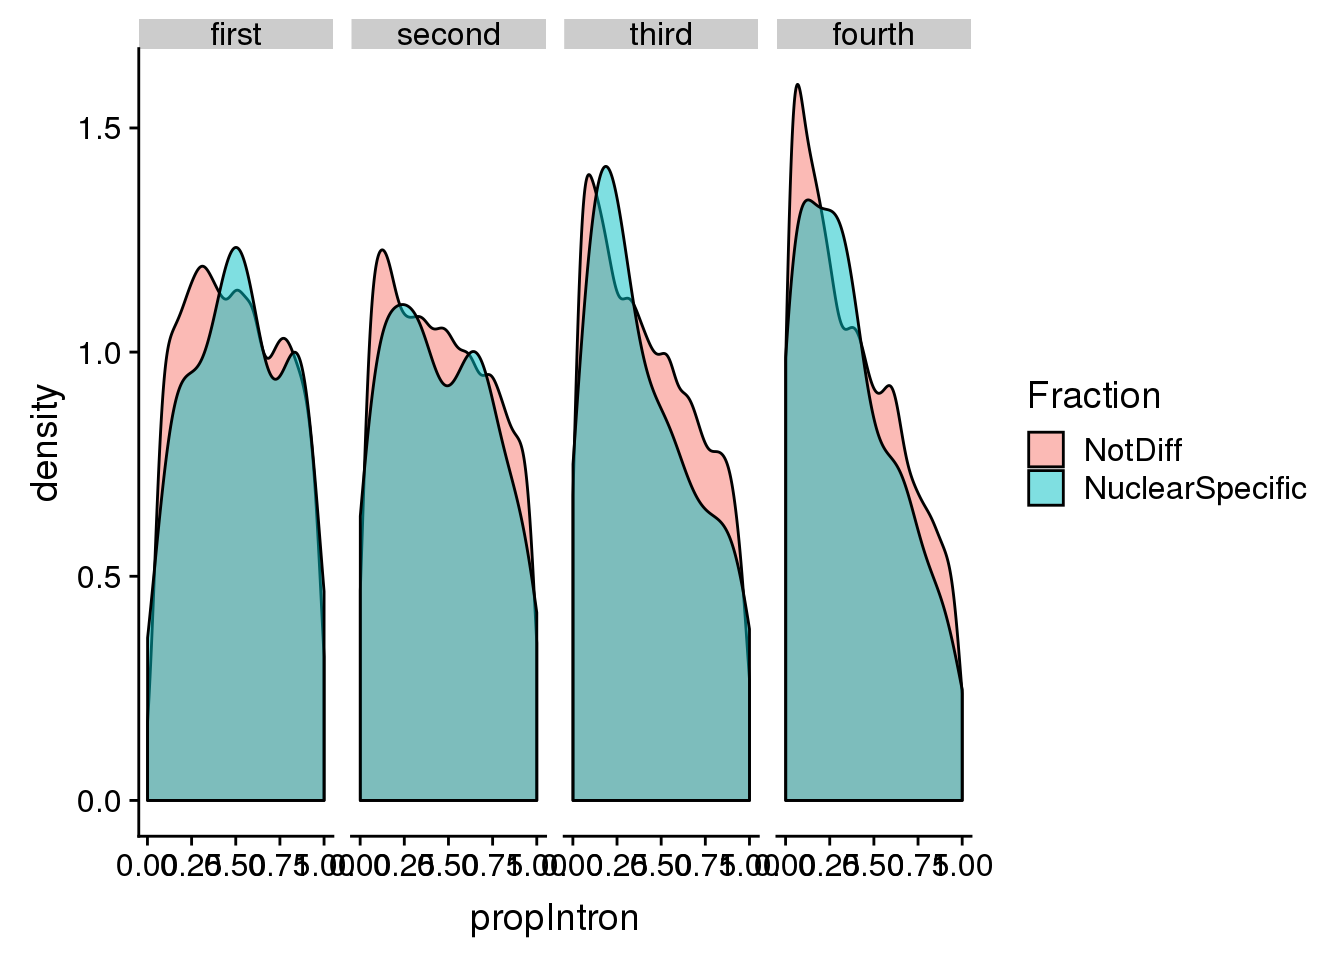
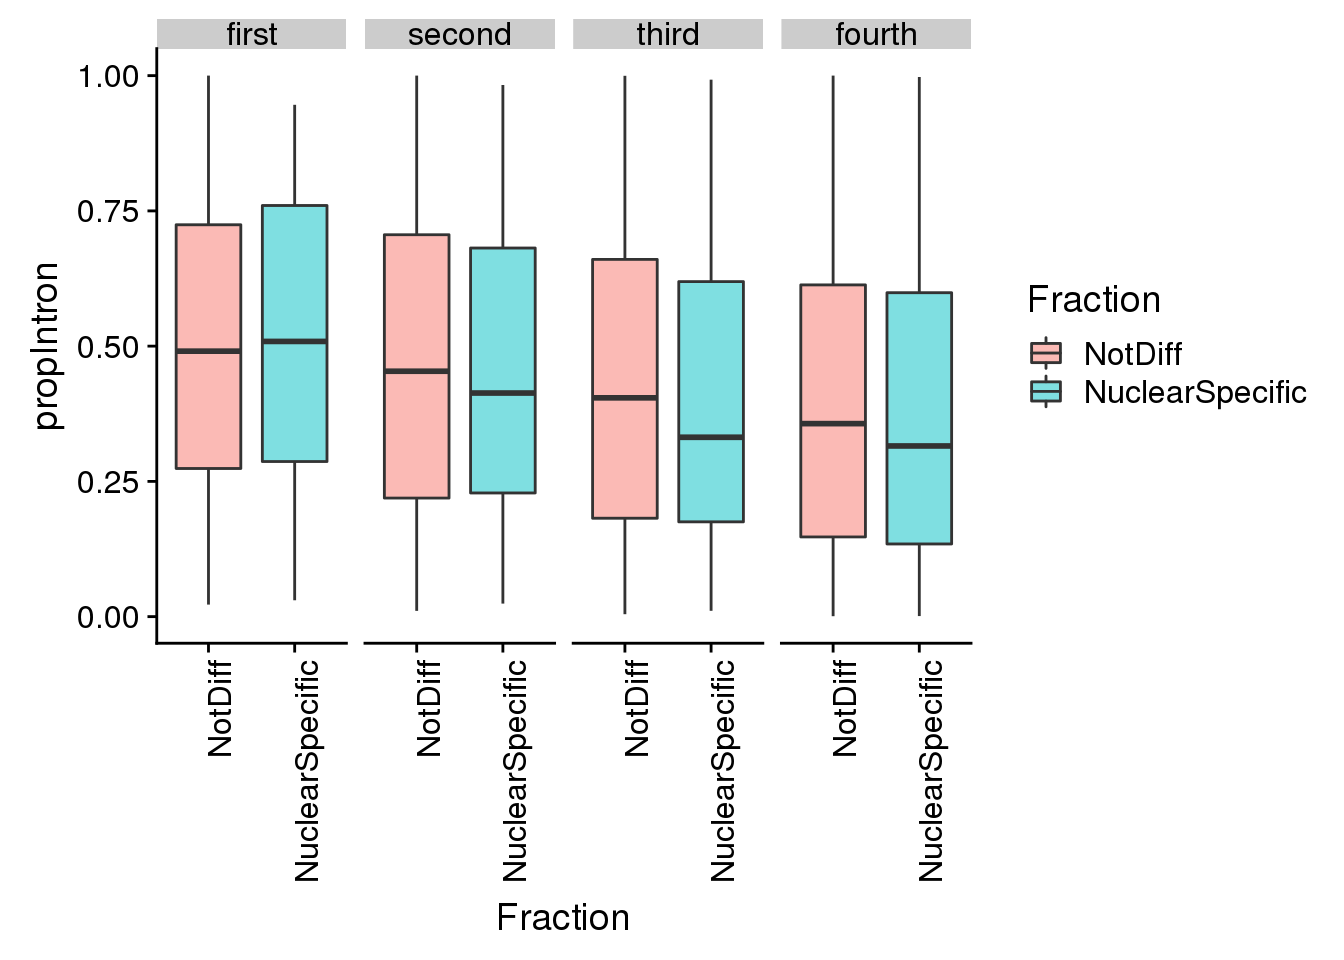
Build site.

diff --git a/docs/nucintronicanalysis.html b/docs/nucintronicanalysis.html
@@ -343,7 +343,7 @@ div.section {
 <div class="tab-content">
 <div id="summary" class="tab-pane fade in active">
 <p>
-<strong>Last updated:</strong> 2019-05-22
+<strong>Last updated:</strong> 2019-05-23
 </p>
 <p>
 <strong>Checks:</strong> <span class="glyphicon glyphicon-ok text-success" aria-hidden="true"></span> 6 <span class="glyphicon glyphicon-exclamation-sign text-danger" aria-hidden="true"></span> 0
@@ -422,10 +422,10 @@ This reproducible <a href="http://rmarkdown.rstudio.com">R Markdown</a> analysis
 <div class="panel panel-default">
 <div class="panel-heading">
 <p class="panel-title">
-<a data-toggle="collapse" data-parent="#workflowr-checks" href="#strongRepositoryversionstrongahrefhttpsgithubcombrimittlemanapaQTLtree6bfa078733ba29f9d36b40aeb0806a4106dd293btargetblank6bfa078a"> <span class="glyphicon glyphicon-ok text-success" aria-hidden="true"></span> <strong>Repository version:</strong> <a href="https://github.com/brimittleman/apaQTL/tree/6bfa078733ba29f9d36b40aeb0806a4106dd293b" target="_blank">6bfa078</a> </a>
+<a data-toggle="collapse" data-parent="#workflowr-checks" href="#strongRepositoryversionstrongahrefhttpsgithubcombrimittlemanapaQTLtreefc5727e38d6bb9317a92fa3f9ae8762090c19069targetblankfc5727ea"> <span class="glyphicon glyphicon-ok text-success" aria-hidden="true"></span> <strong>Repository version:</strong> <a href="https://github.com/brimittleman/apaQTL/tree/fc5727e38d6bb9317a92fa3f9ae8762090c19069" target="_blank">fc5727e</a> </a>
 </p>
 </div>
[2 lines of base64/hex data omitted]
 <div class="panel-body">
 <p>
 Great! You are using Git for version control. Tracking code development and connecting the code version to the results is critical for reproducibility. The version displayed above was the version of the Git repository at the time these results were generated. <br><br> Note that you need to be careful to ensure that all relevant files for the analysis have been committed to Git prior to generating the results (you can use <code>wflow_publish</code> or <code>wflow_git_commit</code>). workflowr only checks the R Markdown file, but you know if there are other scripts or data files that it depends on. Below is the status of the Git repository when the results were generated:
@@ -694,6 +694,7 @@ Unstaged changes:
     Modified:   analysis/nascenttranscription.Rmd
     Modified:   analysis/rerunQTL_changePC.Rmd
     Modified:   analysis/rna_netseq_h3k12ac.Rmd
+    Modified:   code/BothFracDTPlotGeneRegions.sh
     Modified:   code/Snakefile
     Deleted:    code/Upstream10Bases_general.py
     Modified:   code/apaQTLCorrectPvalMakeQQ.R
@@ -741,6 +742,40 @@ Message
 </tr>
 </thead>
 <tbody>
+<tr>
+<td>
+Rmd
+</td>
+<td>
+<a href="https://github.com/brimittleman/apaQTL/blob/fc5727e38d6bb9317a92fa3f9ae8762090c19069/analysis/nucintronicanalysis.Rmd" target="_blank">fc5727e</a>
+</td>
+<td>
+brimittleman
+</td>
+<td>
+2019-05-23
+</td>
+<td>
+add boxplots by pau
+</td>
+</tr>
+<tr>
+<td>
+html
+</td>
+<td>
+<a href="https://rawcdn.githack.com/brimittleman/apaQTL/ab2692689afb940c49ce91e6d28d41719d30075d/docs/nucintronicanalysis.html" target="_blank">ab26926</a>
+</td>
+<td>
+brimittleman
+</td>
+<td>
+2019-05-22
+</td>
+<td>
+Build site.
+</td>
+</tr>
 <tr>
 <td>
 Rmd
@@ -1400,12 +1435,88 @@ pas2intronNuc$deltaPAU= as.numeric(pas2intronNuc$deltaPAU)</code></pre>
 <p>Plot relationship between delta PAU and distance to proporiton of intron</p>
 <pre class="r"><code>ggplot(pas2intronNuc, aes(x=propIntron, y=deltaPAU)) + geom_point() + geom_density2d(col=&quot;red&quot;)</code></pre>
 <p><img src="figure/nucintronicanalysis.Rmd/unnamed-chunk-24-1.png" width="672" style="display: block; margin: auto;" /></p>
+<p>
+<button type="button" class="btn btn-default btn-xs btn-workflowr btn-workflowr-fig" data-toggle="collapse" data-target="#fig-unnamed-chunk-24-1">
+Past versions of unnamed-chunk-24-1.png
+</button>
+</p>
+<div id="fig-unnamed-chunk-24-1" class="collapse">
+<div class="table-responsive">
+<table class="table table-condensed table-hover">
+<thead>
+<tr>
+<th>
+Version
+</th>
+<th>
+Author
+</th>
+<th>
+Date
+</th>
+</tr>
+</thead>
+<tbody>
+<tr>
+<td>
+<a href="https://github.com/brimittleman/apaQTL/blob/ab2692689afb940c49ce91e6d28d41719d30075d/docs/figure/nucintronicanalysis.Rmd/unnamed-chunk-24-1.png" target="_blank">ab26926</a>
+</td>
+<td>
+brimittleman
+</td>
+<td>
+2019-05-22
+</td>
+</tr>
+</tbody>
+</table>
+</div>
+</div>
 <pre class="r"><code>pas2intronNuc_cat=pas2intronNuc %&gt;% mutate(Fraction=ifelse(deltaPAU &lt;= -0.2, &quot;NuclearSpecific&quot;, &quot;NotDiff&quot;)) %&gt;% mutate(LengthCat=ifelse(intronLength&lt;=3929, &quot;first&quot;, ifelse(intronLength&gt;3929 &amp;intronLength&lt;=9220, &quot;second&quot;, ifelse(intronLength&gt;9220 &amp;intronLength&lt;=24094, &quot;third&quot;, &quot;fourth&quot;))))
 
 pas2intronNuc_cat$LengthCat &lt;- factor(pas2intronNuc_cat$LengthCat, levels=c(&quot;first&quot;, &quot;second&quot;, &quot;third&quot;, &quot;fourth&quot;))</code></pre>
 <p>Plot this:</p>
-<pre class="r"><code>ggplot(pas2intronNuc_cat, aes(x=propIntron, by=Fraction, fill=Fraction)) + geom_density(alpha=.5) + facet_grid(~LengthCat)</code></pre>
+<pre class="r"><code>ggplot(pas2intronNuc_cat, aes(y=propIntron, x=Fraction, fill=Fraction)) + geom_boxplot(alpha=.5) + facet_grid(~LengthCat)  + theme(axis.text.x = element_text(angle = 90, hjust = 1)) </code></pre>
 <p><img src="figure/nucintronicanalysis.Rmd/unnamed-chunk-26-1.png" width="672" style="display: block; margin: auto;" /></p>
+<p>
+<button type="button" class="btn btn-default btn-xs btn-workflowr btn-workflowr-fig" data-toggle="collapse" data-target="#fig-unnamed-chunk-26-1">
+Past versions of unnamed-chunk-26-1.png
+</button>
+</p>
+<div id="fig-unnamed-chunk-26-1" class="collapse">
+<div class="table-responsive">
+<table class="table table-condensed table-hover">
+<thead>
+<tr>
+<th>
+Version
+</th>
+<th>
+Author
+</th>
+<th>
+Date
+</th>
+</tr>
+</thead>
+<tbody>
+<tr>
+<td>
+<a href="https://github.com/brimittleman/apaQTL/blob/ab2692689afb940c49ce91e6d28d41719d30075d/docs/figure/nucintronicanalysis.Rmd/unnamed-chunk-26-1.png" target="_blank">ab26926</a>
+</td>
+<td>
+brimittleman
+</td>
+<td>
+2019-05-22
+</td>
+</tr>
+</tbody>
+</table>
+</div>
+</div>
+<pre class="r"><code>ggplot(pas2intronNuc_cat, aes(y=propIntron, x=Fraction, fill=Fraction)) + geom_boxplot(alpha=.5)  + theme(axis.text.x = element_text(angle = 90, hjust = 1)) </code></pre>
+<p><img src="figure/nucintronicanalysis.Rmd/unnamed-chunk-27-1.png" width="672" style="display: block; margin: auto;" /></p>
 <br>
 <p>
 <button type="button" class="btn btn-default btn-workflowr btn-workflowr-sessioninfo" data-toggle="collapse" data-target="#workflowr-sessioninfo" style="display: block;">
